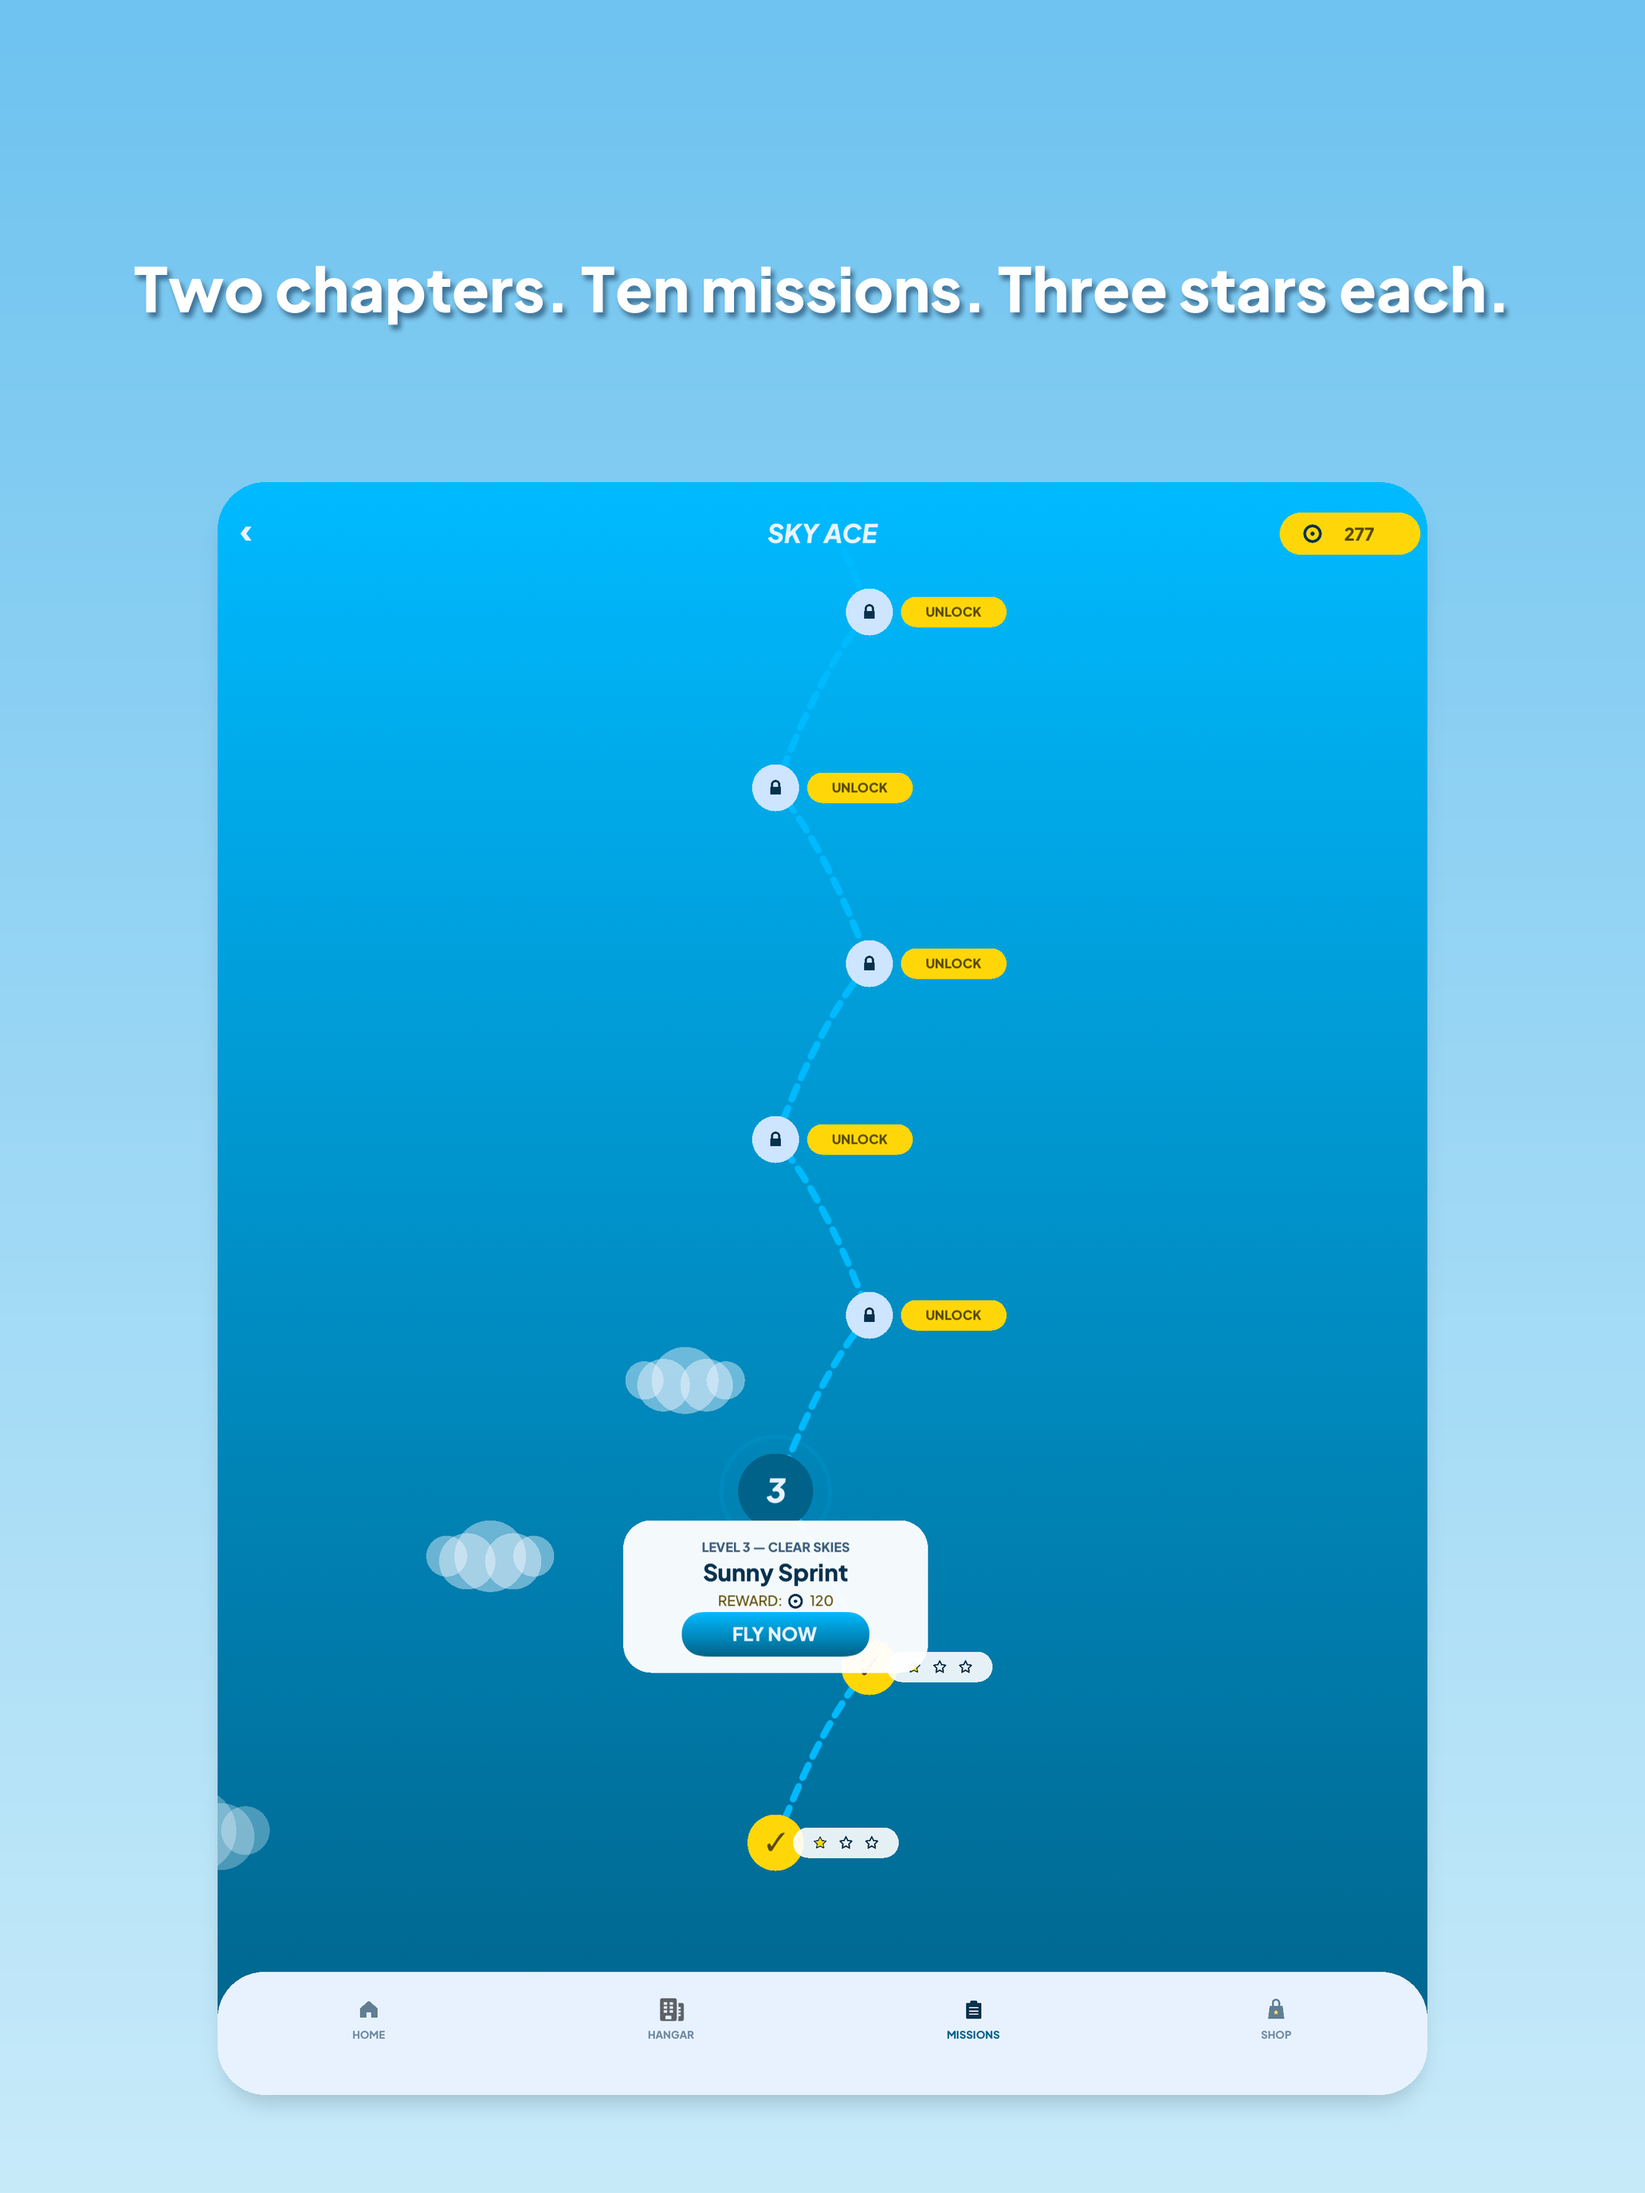
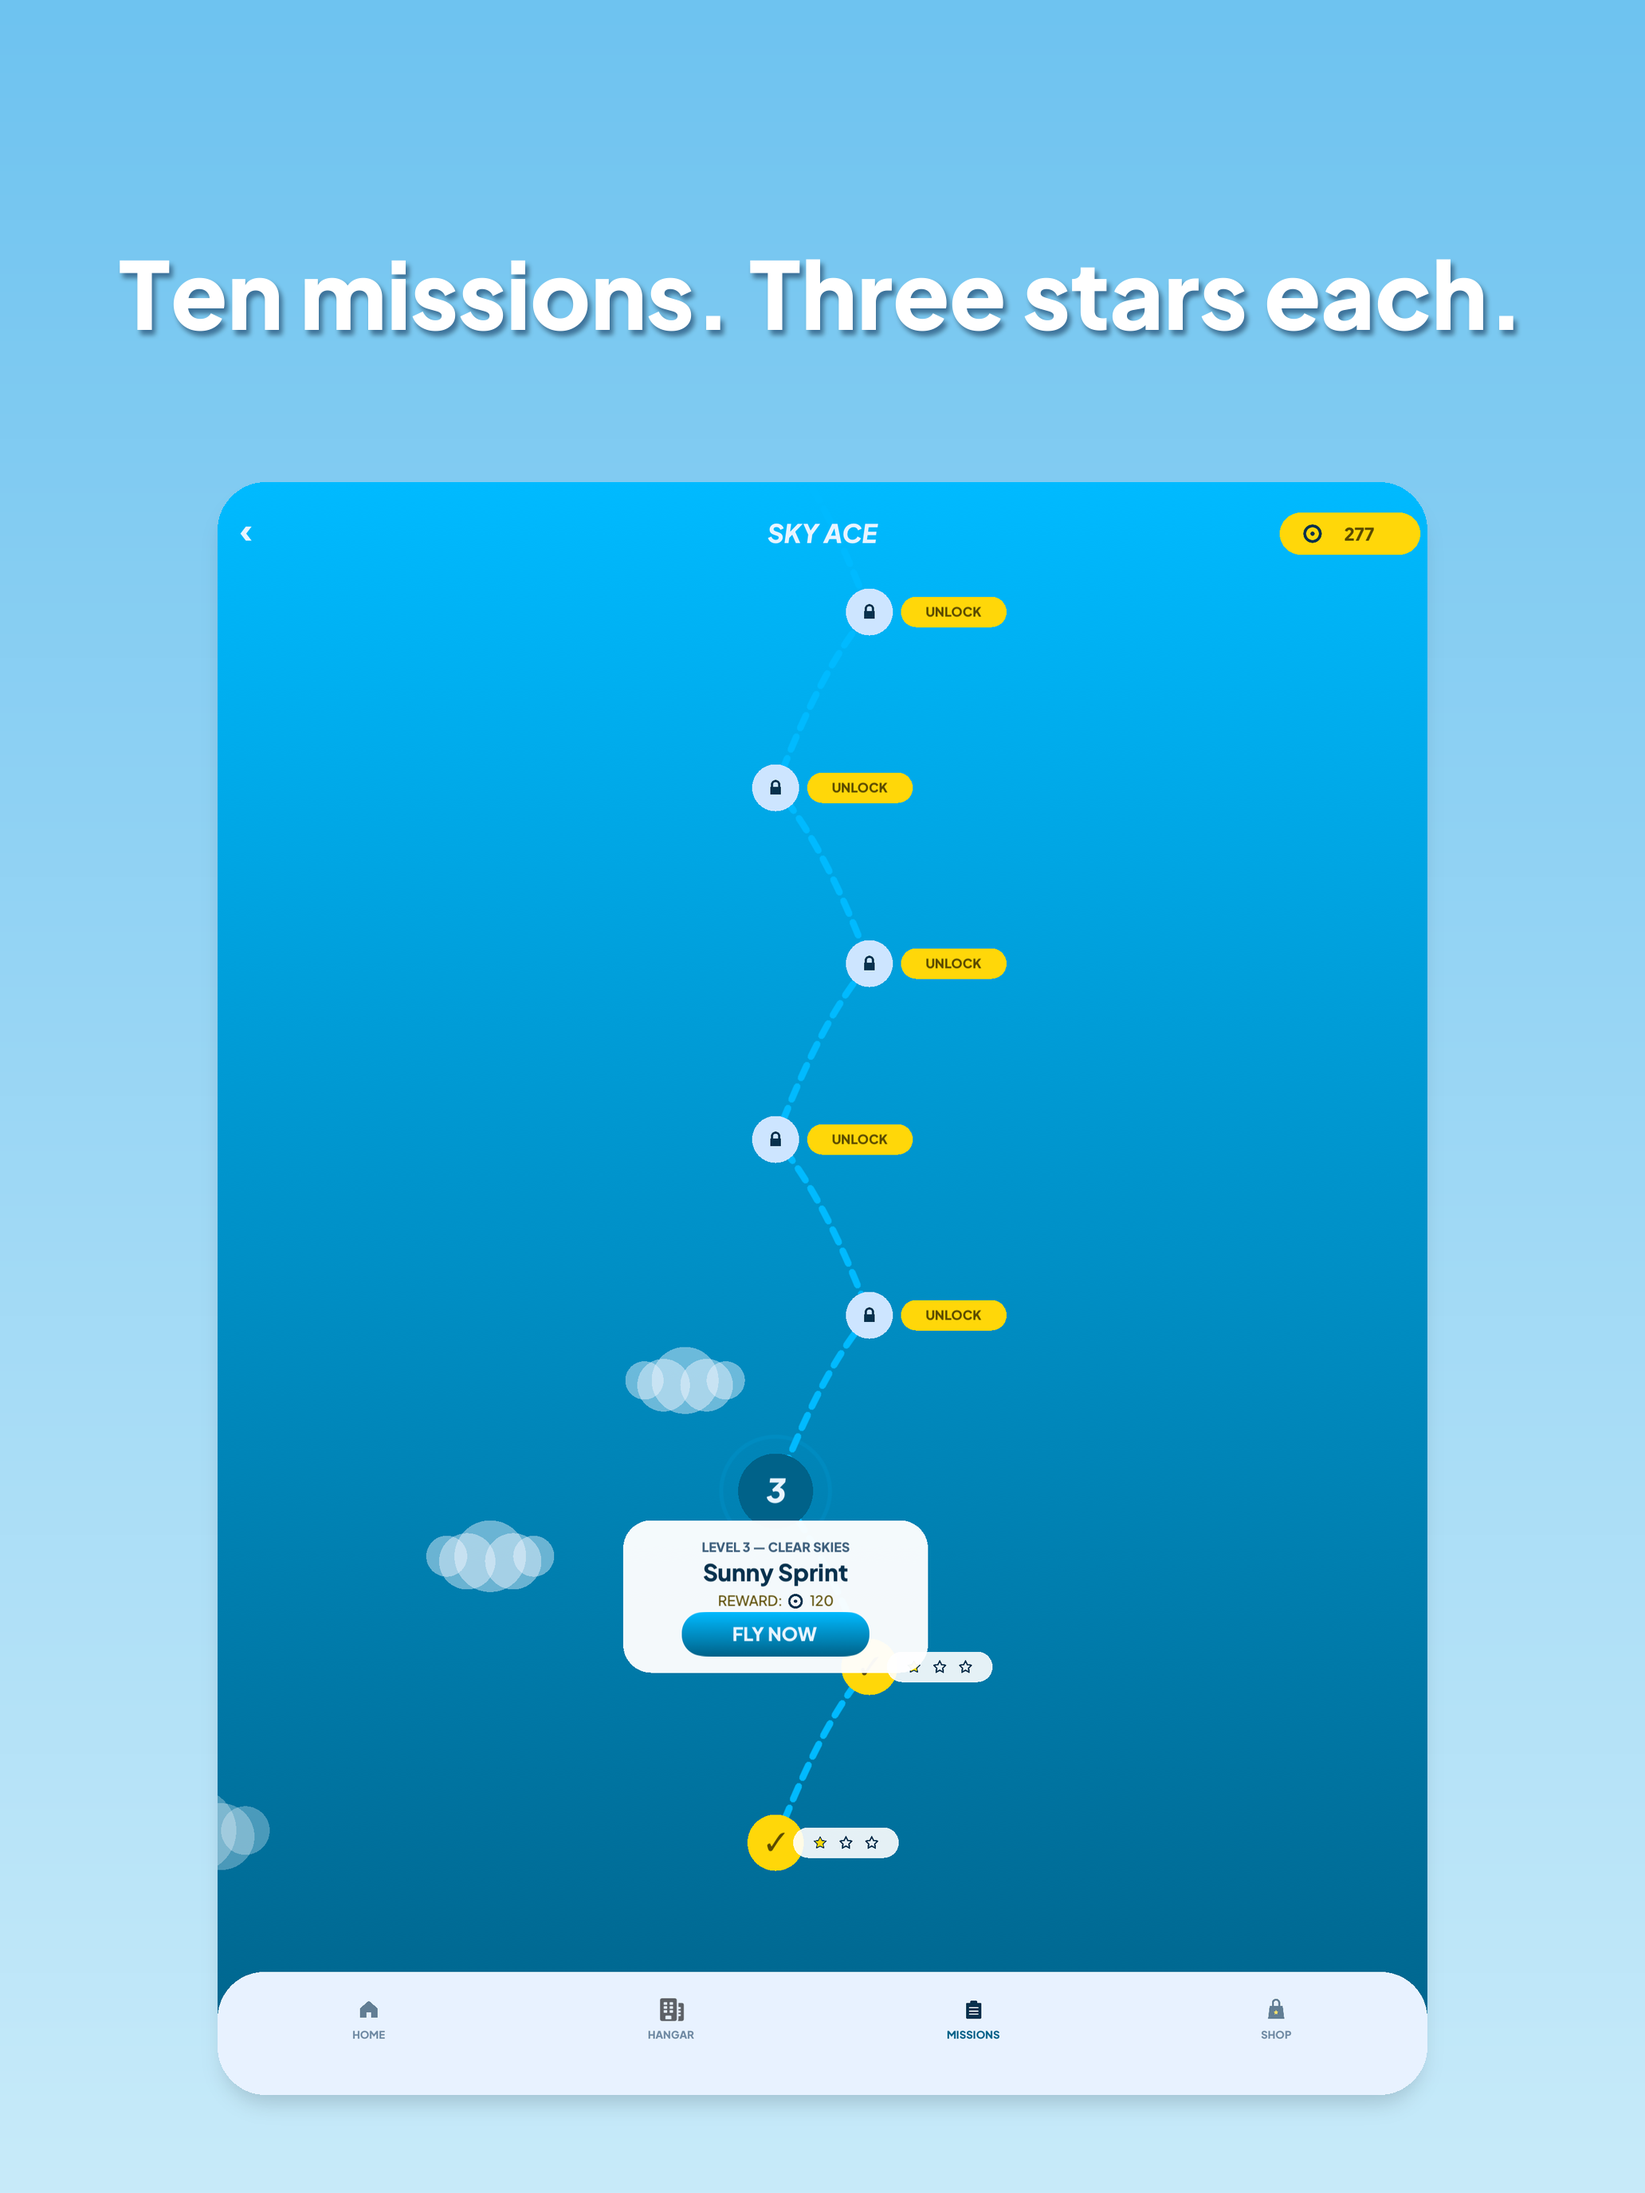
[SKY-74] Add coin chain screenshot to App Store submission
Adds a 4th screenshot (Sunny Sprint coin-chain gameplay) to the App Store
asset set so the submission visually demonstrates a second mission type
distinct from the obstacle course. Strengthens the 4.3(a) appeal that
the game offers more than Flappy Bird-style obstacle dodging.

- New slot 4 "Collect every coin. Beat the clock." (iPhone 6.7" + iPad 13")
- Free Flight moved to slot 5, Shop moved to slot 6
- Slot 1 caption shortened to "Ten missions. Three stars each."
  (iPad regenerated; iPhone was already using this caption)
- CAPTURE.md updated to the 6-slot sequence with capture notes for
  the new coin-chain slot

Changed region(s): [[0.062, 0.0938, 0.9302, 0.1562]]

diff --git a/docs/app-store-screenshots/CAPTURE.md b/docs/app-store-screenshots/CAPTURE.md
@@ -1,9 +1,9 @@
 # App Store Screenshot Capture Guide
 
-Reference for recapturing the App Store screenshot slots. The full rationale lives in the Linear ticket ([SKY-71](https://linear.app/skyace/issue/SKY-71/app-store-screenshots-resubmission-pass)) — this file is the operational checklist for the **pragmatic-middle scope** (5 stills per device, no preview videos).
+Reference for recapturing the App Store screenshot slots. Background rationale for the 5-slot baseline lives in [SKY-71](https://linear.app/skyace/issue/SKY-71/app-store-screenshots-resubmission-pass); the coin-chain slot was added in [SKY-74](https://linear.app/skyace/issue/SKY-74/add-coin-chain-screenshot-to-app-store-submission) to visually demonstrate the second mission type (Sunny Sprint / coin chain) and strengthen the 4.3(a) appeal.
 
-The scope diverges from the ticket's original 6-slot plan in two ways:
-- The level-complete-3-star slot is dropped (rhetorically nice, but not cited in Apple's 4.3(a) rejection; expensive to capture).
+The current sequence is 6 stills per device, no preview videos. Notes on what was deliberately skipped:
+- Level-complete-3-star slot is still dropped (rhetorically nice, but not cited in Apple's 4.3(a) rejection; expensive to capture).
 - Preview videos are skipped (optional in App Store Connect; the existing ones use pre-SKY-62 obstacle art, so a future ticket can re-record).
 
 ## Pre-capture checklist
@@ -17,27 +17,30 @@ The scope diverges from the ticket's original 6-slot plan in two ways:
 
 ## Slot sequence
 
-The order matters — slot 1 must be the missions map, not the home screen.
+The order matters — slot 1 must be the missions map, not the home screen. Slot 4 demonstrates the coin-chain mission type and must read as clearly distinct from the slot-2 obstacle course (open sky, no wall-based obstacles, timer + coin HUD visible).
 
 | # | Filename            | Screen                                                                                  | Caption                                          |
 | - | ------------------- | --------------------------------------------------------------------------------------- | ------------------------------------------------ |
-| 1 | `01-missions.png`   | Missions map, mid-progression, mission card expanded, multiple locked levels visible    | Two chapters. Ten missions. Three stars each.    |
-| 2 | `02-gameplay.png`   | Active gameplay, post-SKY-62 obstacles, finish line in frame, timer + coin HUD          | Every mission has a finish line.                 |
+| 1 | `01-missions.png`   | Missions map, mid-progression, mission card expanded, multiple locked levels visible    | Ten missions. Three stars each.                  |
+| 2 | `02-gameplay.png`   | Active obstacle-course gameplay, post-SKY-62 obstacles, finish line in frame, timer + coin HUD | Every mission has a finish line.          |
 | 3 | `03-hangar.png`     | Hangar with a plane centered and the bottom tab visible                                 | Pick your plane.                                 |
-| 4 | `04-freeflight.png` | Free Flight city scene, clock tower in lower third, plane in upper half                 | Open skies. No timer. No walls.                  |
-| 5 | `05-shop.png`       | Shop with Engine Boost + Armor Plating rows visible, no paywall modal, Fuel Tank "Coming Soon" scrolled out of frame | Upgrade your plane. No ads. No tracking. |
+| 4 | `04-coinchain.png`  | Active coin-chain gameplay (Sunny Sprint), open sky, scattered coin patterns, timer in top right, no wall obstacles | Collect every coin. Beat the clock. |
+| 5 | `05-freeflight.png` | Free Flight city scene, clock tower in lower third, plane in upper half                 | Open skies. No timer. No walls.                  |
+| 6 | `06-shop.png`       | Shop with Engine Boost + Armor Plating rows visible, no paywall modal, Fuel Tank "Coming Soon" scrolled out of frame | Upgrade your plane. No ads. No tracking. |
 
 ## Per-slot capture notes
 
-**Slot 1 — Missions map.** Tap a non-locked level so its mission card is expanded. Aim for at least 3 locked levels visible above the expanded card. Levels below the card should show their earned stars. Chapters are only implied by the card subtitle ("LEVEL X — CHAPTER NAME") — there's no explicit chapter divider in the scene UI.
+**Slot 1 — Missions map.** Tap a non-locked level so its mission card is expanded. Aim for at least 3 locked levels visible above the expanded card. Levels below the card should show their earned stars.
 
-**Slot 2 — Gameplay.** Capture during an active run on a level where the finish line (checkered flag) is visible or clearly approaching. At least one obstacle and one coin should be on screen. Timer and coin count readable. Must use post-SKY-62 themed obstacle art.
+**Slot 2 — Obstacle-course gameplay.** Capture during an active run on a level where the finish line (checkered flag) is visible or clearly approaching. At least one obstacle and one coin should be on screen. Timer and coin count readable. Must use post-SKY-62 themed obstacle art.
 
 **Slot 3 — Hangar.** Reuse the existing "Pick your plane" composition — a single centered plane with the bottom tab bar visible is acceptable for the pragmatic scope.
 
-**Slot 4 — Free Flight.** City scene. Clock tower landmark in the lower third, plane in the upper half. "SKYLINE TOUR" HUD label visible if possible.
+**Slot 4 — Coin-chain gameplay.** Capture during an active run on Sunny Sprint (or another coin-chain level). Frame must show an open sky with a scattered coin pattern, the plane somewhere mid-frame, the "SUNNY SPRINT" + timer HUD top-right, and the coin counter top-left. Do NOT include any wall-based obstacles — that's what makes this slot read as a different mission type from slot 2.
 
-**Slot 5 — Shop.** Premium unlock required first — the paywall overlay in [ShopScene.swift](../../SkyAce/Scenes/ShopScene.swift) is non-dismissable until `IAPManager.shared.isContentUnlocked` is `true`. Either complete a StoreKit test purchase via the `SkyAce.storekit` config, or temporarily flip `debugUnlockAllContent` to `true` (and revert before commit). Once unlocked, scroll so Engine Boost and Armor Plating rows show with their upgrade levels and coin prices. Keep Fuel Tank "Coming Soon" out of frame if it can be scrolled away.
+**Slot 5 — Free Flight.** City scene. Clock tower landmark in the lower third, plane in the upper half. "SKYLINE TOUR" HUD label visible if possible.
+
+**Slot 6 — Shop.** Premium unlock required first — the paywall overlay in [ShopScene.swift](../../SkyAce/Scenes/ShopScene.swift) is non-dismissable until `IAPManager.shared.isContentUnlocked` is `true`. Either complete a StoreKit test purchase via the `SkyAce.storekit` config, or temporarily flip `debugUnlockAllContent` to `true` (and revert before commit). Once unlocked, scroll so Engine Boost and Armor Plating rows show with their upgrade levels and coin prices. Keep Fuel Tank "Coming Soon" out of frame if it can be scrolled away.
 
 ## Composing a slot
 
@@ -49,27 +52,28 @@ cd docs/app-store-screenshots
 
 python3 _compose.py \
   iphone-6.7/raw/01-missions.png \
-  "Two chapters. Ten missions. Three stars each." \
+  "Ten missions. Three stars each." \
   iphone-6.7/final/01-missions.png \
   --device iphone
 
 python3 _compose.py \
   ipad-13/raw/01-missions.png \
-  "Two chapters. Ten missions. Three stars each." \
+  "Ten missions. Three stars each." \
   ipad-13/final/01-missions.png \
   --device ipad
 ```
 
-Repeat for each slot using the filenames and captions in the table above.
+Repeat for each slot using the filenames and captions in the table above. Note that the raw filename in `raw/` does not have to match the final filename — `_compose.py` reads from any path you point it at. The current coin-chain raws are stored as `07-coinchain.png` even though the final lands at `04-coinchain.png`.
 
 ## Done check
 
-Before declaring SKY-71 complete:
+Before declaring the screenshot pass complete:
 
-- [ ] All 5 iPhone slots regenerated with the new sequence + captions.
-- [ ] All 5 iPad slots regenerated with the new sequence + captions.
+- [ ] All 6 iPhone slots regenerated with the new sequence + captions.
+- [ ] All 6 iPad slots regenerated with the new sequence + captions.
 - [ ] No pre-SKY-62 obstacle art in any asset.
 - [ ] Slot 1 is the missions map, not the home screen.
-- [ ] Paywall modal does not appear in slot 5 shop.
+- [ ] Slot 4 (coin chain) contains no wall-based obstacles.
+- [ ] Paywall modal does not appear in slot 6 shop.
 - [ ] `debugUnlockAllContent` is `false` in committed code.
 - [ ] All assets uploaded to App Store Connect.
